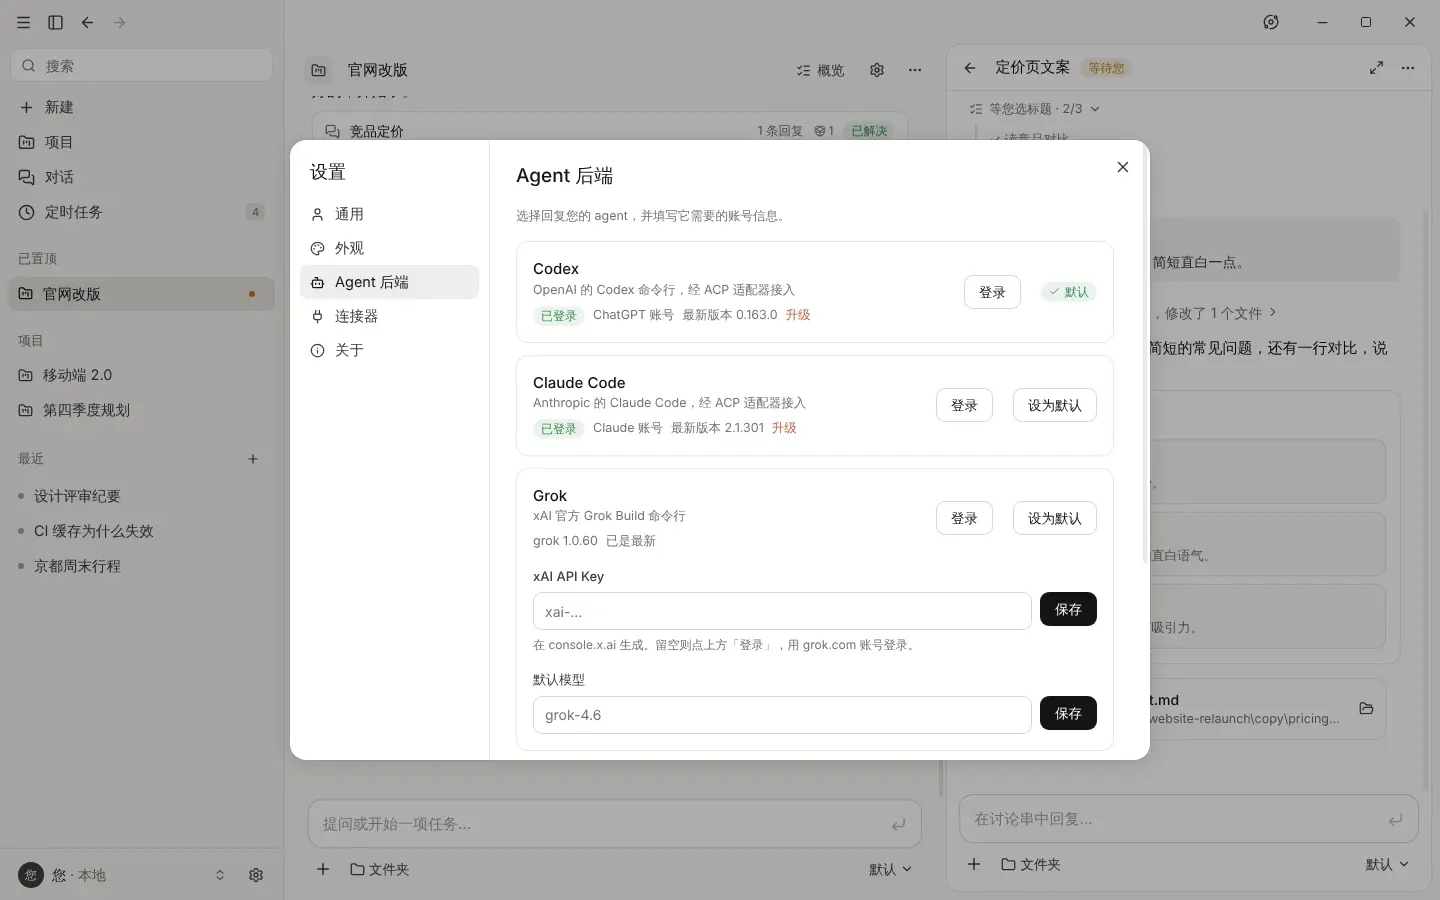
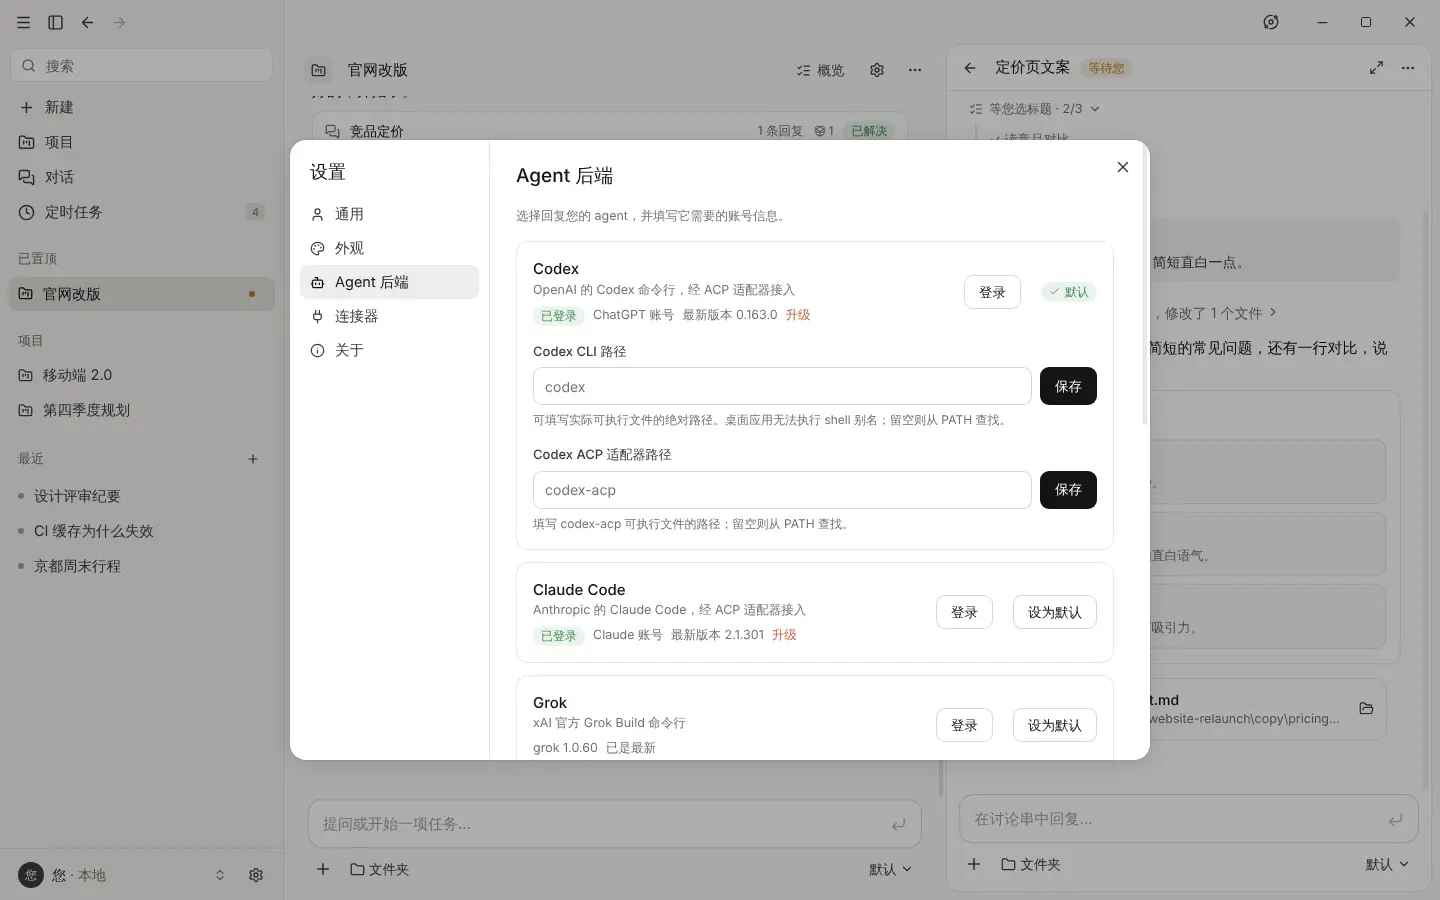
Release 0.1.1 for Windows only
CI and release staging build Windows only (no macOS signing identity);
macOS and Linux build from source. README download names, release
notes, and refreshed screenshots. The screenshot stubs exec their
sleep so the app can close.

diff --git a/docs/releases/v0.1.1.md b/docs/releases/v0.1.1.md
@@ -1,0 +1,55 @@
+# Ancora 0.1.1
+
+Fixes for Qoder and Codex setups that 0.1.0 couldn't start, model choice before the first message, and account credits for Qoder.
+
+> **Unofficial.** Ancora is an independent open-source project, not affiliated with, endorsed by or sponsored by Anthropic, OpenAI, xAI or Qoder. "Claude" is a trademark of Anthropic.
+
+**Download:** `Ancora-Setup-0.1.1.exe` (installer) or `Ancora-0.1.1-win.zip` (unzip anywhere and run `Ancora.exe`). The build is not code-signed, so if SmartScreen asks, choose **More info → Run anyway**. Releases are Windows only: macOS and Linux build from source with `build.sh` (see the README).
+
+## What's new
+
+- **Model choice before the first message.** Opening the model menu loads the agent's models and thinking levels without sending anything. Each agent remembers its own model and thinking level.
+- **Switch agents in an idle chat.** The new agent receives the conversation so far.
+- **Qoder credits.** For Qoder, the usage button shows your account's plan credits, read without sending a prompt.
+- **Last reply timing.** The usage menu shows how soon the last reply started and roughly how long each token took, as the app observed it.
+
+## Fixes
+
+- Qoder installed through npm on Windows now starts through its own Node entry, so stopping a check really stops it. You can also set the Qoder CLI path and the Node to run it with.
+- Codex can use a CLI path and an ACP adapter path, for a `codex` that is an alias or lives inside another app.
+- Settings checks whether each agent is actually installed before offering it. Project and scheduled-task forms list only agents that can answer.
+- Editing `backends.json` takes effect without clicking Reload.
+- The install and upgrade confirmation lays out long commands correctly.
+- A permission mode picked for one new chat no longer carries over to the next one.
+- Local file errors (permissions, read-only folders) are no longer reported as sign-in problems.
+- The window fits smaller screens, and menus shrink and scroll instead of covering their button.
+- Releases no longer include the demo agent.
+
+---
+
+# Ancora 0.1.1
+
+修复了 0.1.0 里一些 Qoder 和 Codex 装法启动不了的问题；第一条消息之前就能选模型；Qoder 可以查看账户 Credits。
+
+> **非官方项目。** Ancora 是独立的开源项目，与 Anthropic、OpenAI、xAI、Qoder 均无关联，也没有得到它们的认可或赞助。「Claude」是 Anthropic 的商标。
+
+**下载：** 安装包 `Ancora-Setup-0.1.1.exe`，或免安装的 `Ancora-0.1.1-win.zip`（解压到任意位置，运行 `Ancora.exe`）。程序没有代码签名，如果 SmartScreen 拦截，点「更多信息 → 仍要运行」。发布页只提供 Windows 版本，macOS 和 Linux 请用 `build.sh` 从源码编译（见 README）。
+
+## 新功能
+
+- **第一条消息之前就能选模型。** 打开模型菜单时会读取 agent 提供的模型和思考强度，不会发送任何内容。每个 agent 各自记住自己的模型和思考强度。
+- **空闲的对话可以换 agent。** 新的 agent 会拿到之前的对话内容。
+- **Qoder 账户 Credits。** 用 Qoder 时，用量按钮显示账户套餐的 Credits，查询时不发送任何提示。
+- **最近一次回复的速度。** 用量菜单里显示最近一次回复多久开始，以及大约每个 token 用了多久（应用这边观测到的数字）。
+
+## 修复
+
+- 在 Windows 上用 npm 装的 Qoder，现在通过它自己的 Node 入口启动，停止检查时能真正停下来。也可以自己填 Qoder CLI 路径和运行它的 Node。
+- Codex 可以填 CLI 路径和 ACP 适配器路径，适合 `codex` 是别名或装在别的应用里的情况。
+- 设置会先确认 agent 真的装好了再提供；项目和定时任务的表单只列出能用的 agent。
+- 修改 `backends.json` 后自动生效，不用再点「重新加载」。
+- 安装和升级的确认框能正确显示很长的命令。
+- 在一个新对话里选的权限模式，不会再带到下一个新对话。
+- 本地文件读写出错（权限、只读文件夹）时，不会再被说成是登录问题。
+- 窗口能适应较小的屏幕；菜单放不下时会缩短并滚动，不再挡住按钮。
+- 发布版本里不再包含演示 agent。

diff --git a/README.md b/README.md
@@ -35,7 +35,9 @@ With computer use switched on, an agent whose model can read images works in you
 
 Codex, Claude Code, Grok and Qoder are built in, and Codex is the suggested default when it is installed. Settings shows whether each one is installed and, where the agent reports it, signed in. It checks for updates and upgrades only when you ask. Any other ACP agent is one entry in `backends.json`.
 
-Ancora never installs an agent on its own. The install and upgrade buttons show the exact command and wait for you to confirm, and the model picker only lists agents that are ready to use.
+Ancora never installs an agent on its own. The install and upgrade buttons show the exact command and wait for you to confirm, and the model picker only lists agents that are ready to use. It loads an agent's models as soon as you open it, so you can pick a model and thinking level before the first message, and an idle chat can switch to another agent, which receives the conversation so far.
+
+If a CLI isn't on `PATH` (a shell alias, or bundled inside another app), set its path under Settings → Agent backends: Codex takes the CLI and the `codex-acp` adapter, Qoder the CLI and, for its JS entry, Node. With Qoder, the usage button shows your account's credits instead of tokens.
 
 ![Settings: Codex and Claude Code signed in, Grok up to date](docs/screenshots/en/backends.webp)
 
@@ -61,7 +63,7 @@ Also included: attachments, editing and regenerating with version history, token
 
 ## Quick start
 
-1. Download `Ancora-0.1.0-win.zip` from [Releases](../../releases), unzip it anywhere and run `Ancora.exe`. The build is not code-signed yet, so Windows SmartScreen may ask first: choose **More info → Run anyway**.
+1. From [Releases](../../releases), download the installer (`Ancora-Setup-0.1.1.exe`) or the portable `Ancora-0.1.1-win.zip` (unzip it anywhere and run `Ancora.exe`). The build is not code-signed, so Windows SmartScreen may ask first: choose **More info → Run anyway**.
 2. Install and sign in to at least one agent, in a terminal or from Settings → Agent backends:
 
    | Agent | Install | Sign in | Status |
@@ -79,7 +81,7 @@ Also included: attachments, editing and regenerating with version history, token
 | Platform | Status |
 |---|---|
 | Windows 11 (x64) | Prebuilt release. Tested, including computer use. Windows 10 should work but has not been tested. |
-| macOS | Build from source with `build.sh`. Not yet verified on hardware; feedback welcome. Computer use needs the Accessibility and Screen Recording permissions. |
+| macOS | Build from source with `build.sh`. There is no prebuilt download, since the project has no Apple signing identity. Not yet verified on hardware; feedback welcome. Computer use needs the Accessibility and Screen Recording permissions. |
 | Linux | Build from source with `build.sh`. Not yet verified on desktop hardware; feedback welcome. Computer use needs an X11 session and `xdotool` (Wayland isn't supported). |
 
 ## Build from source
